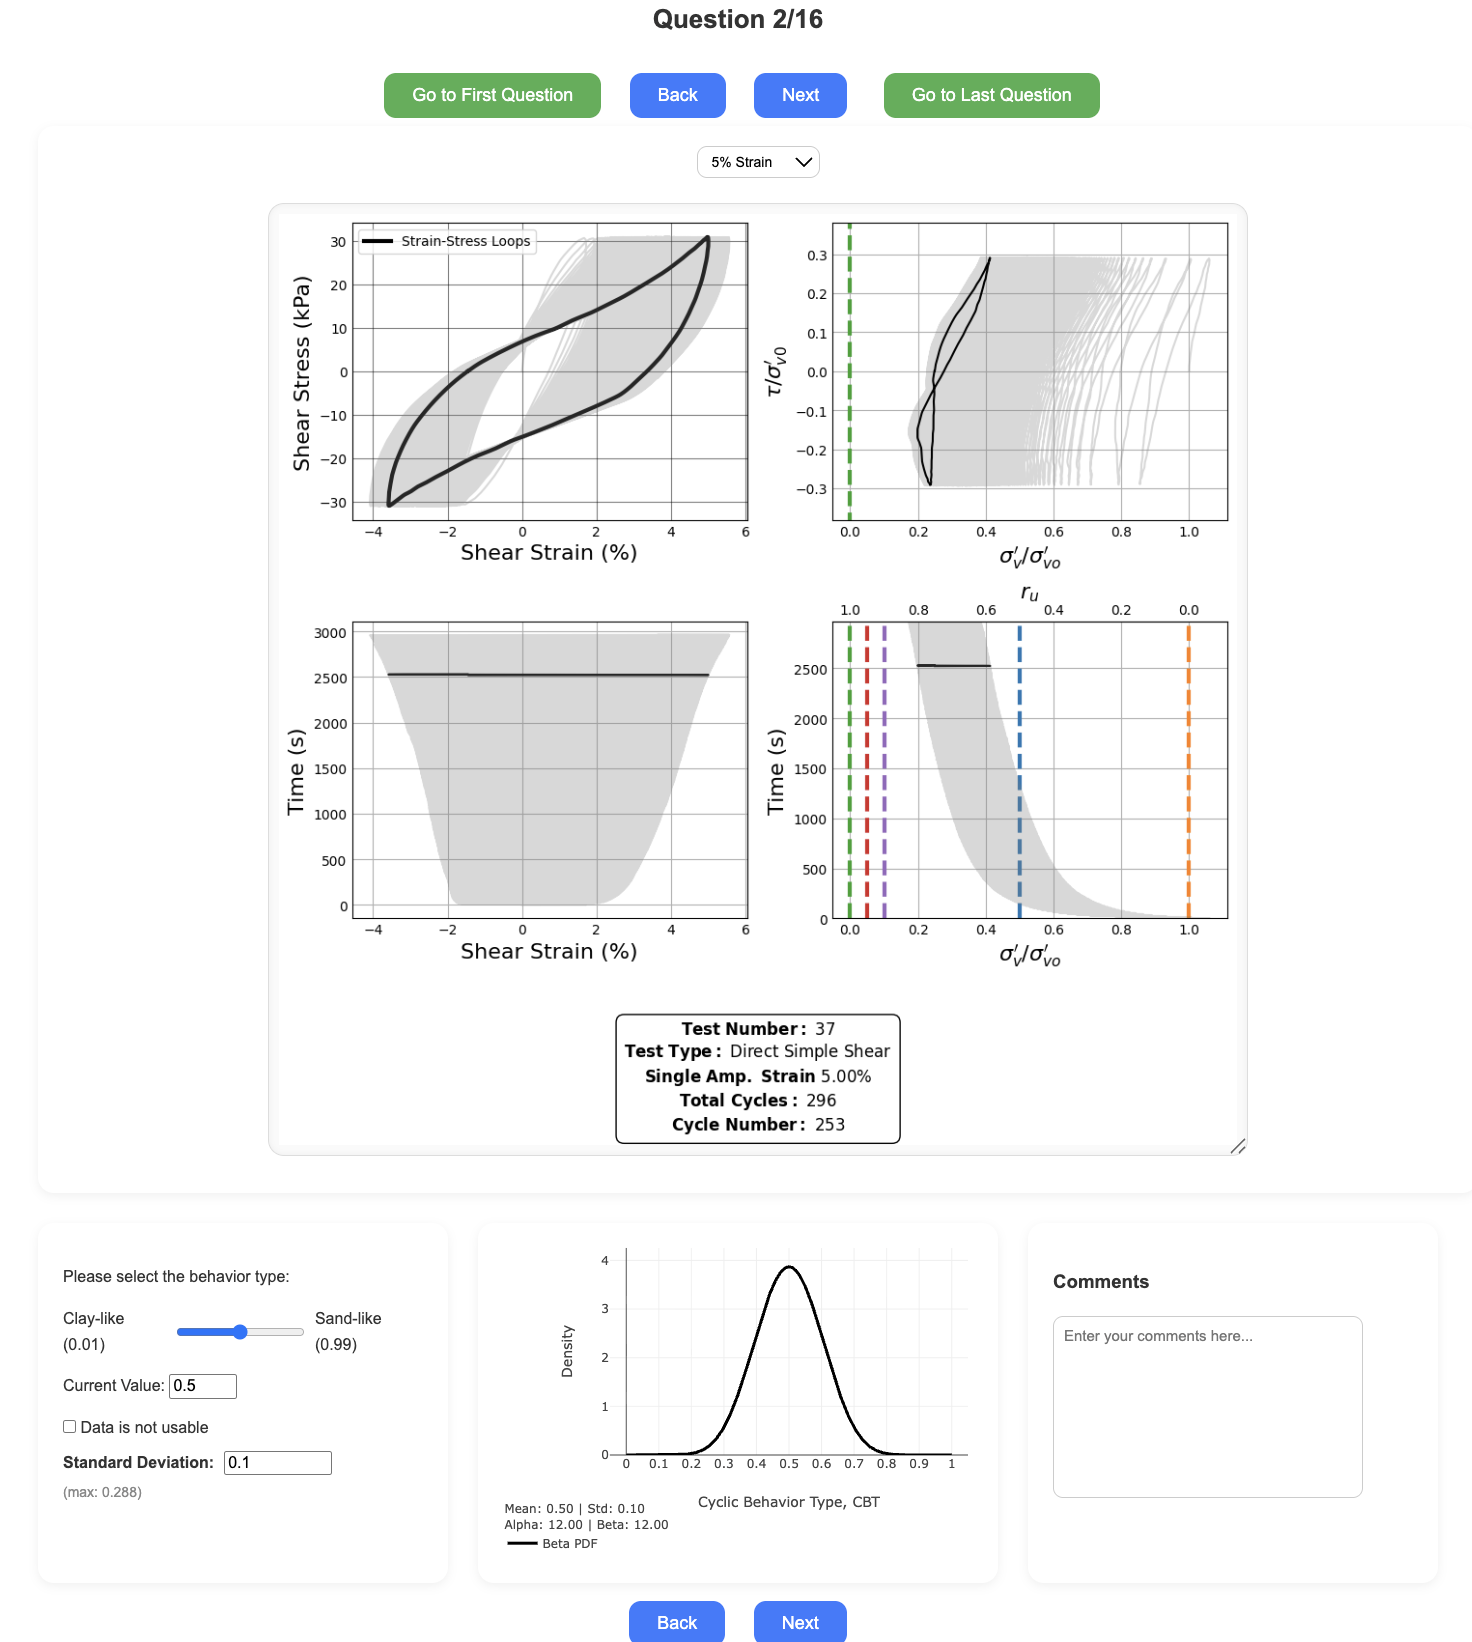
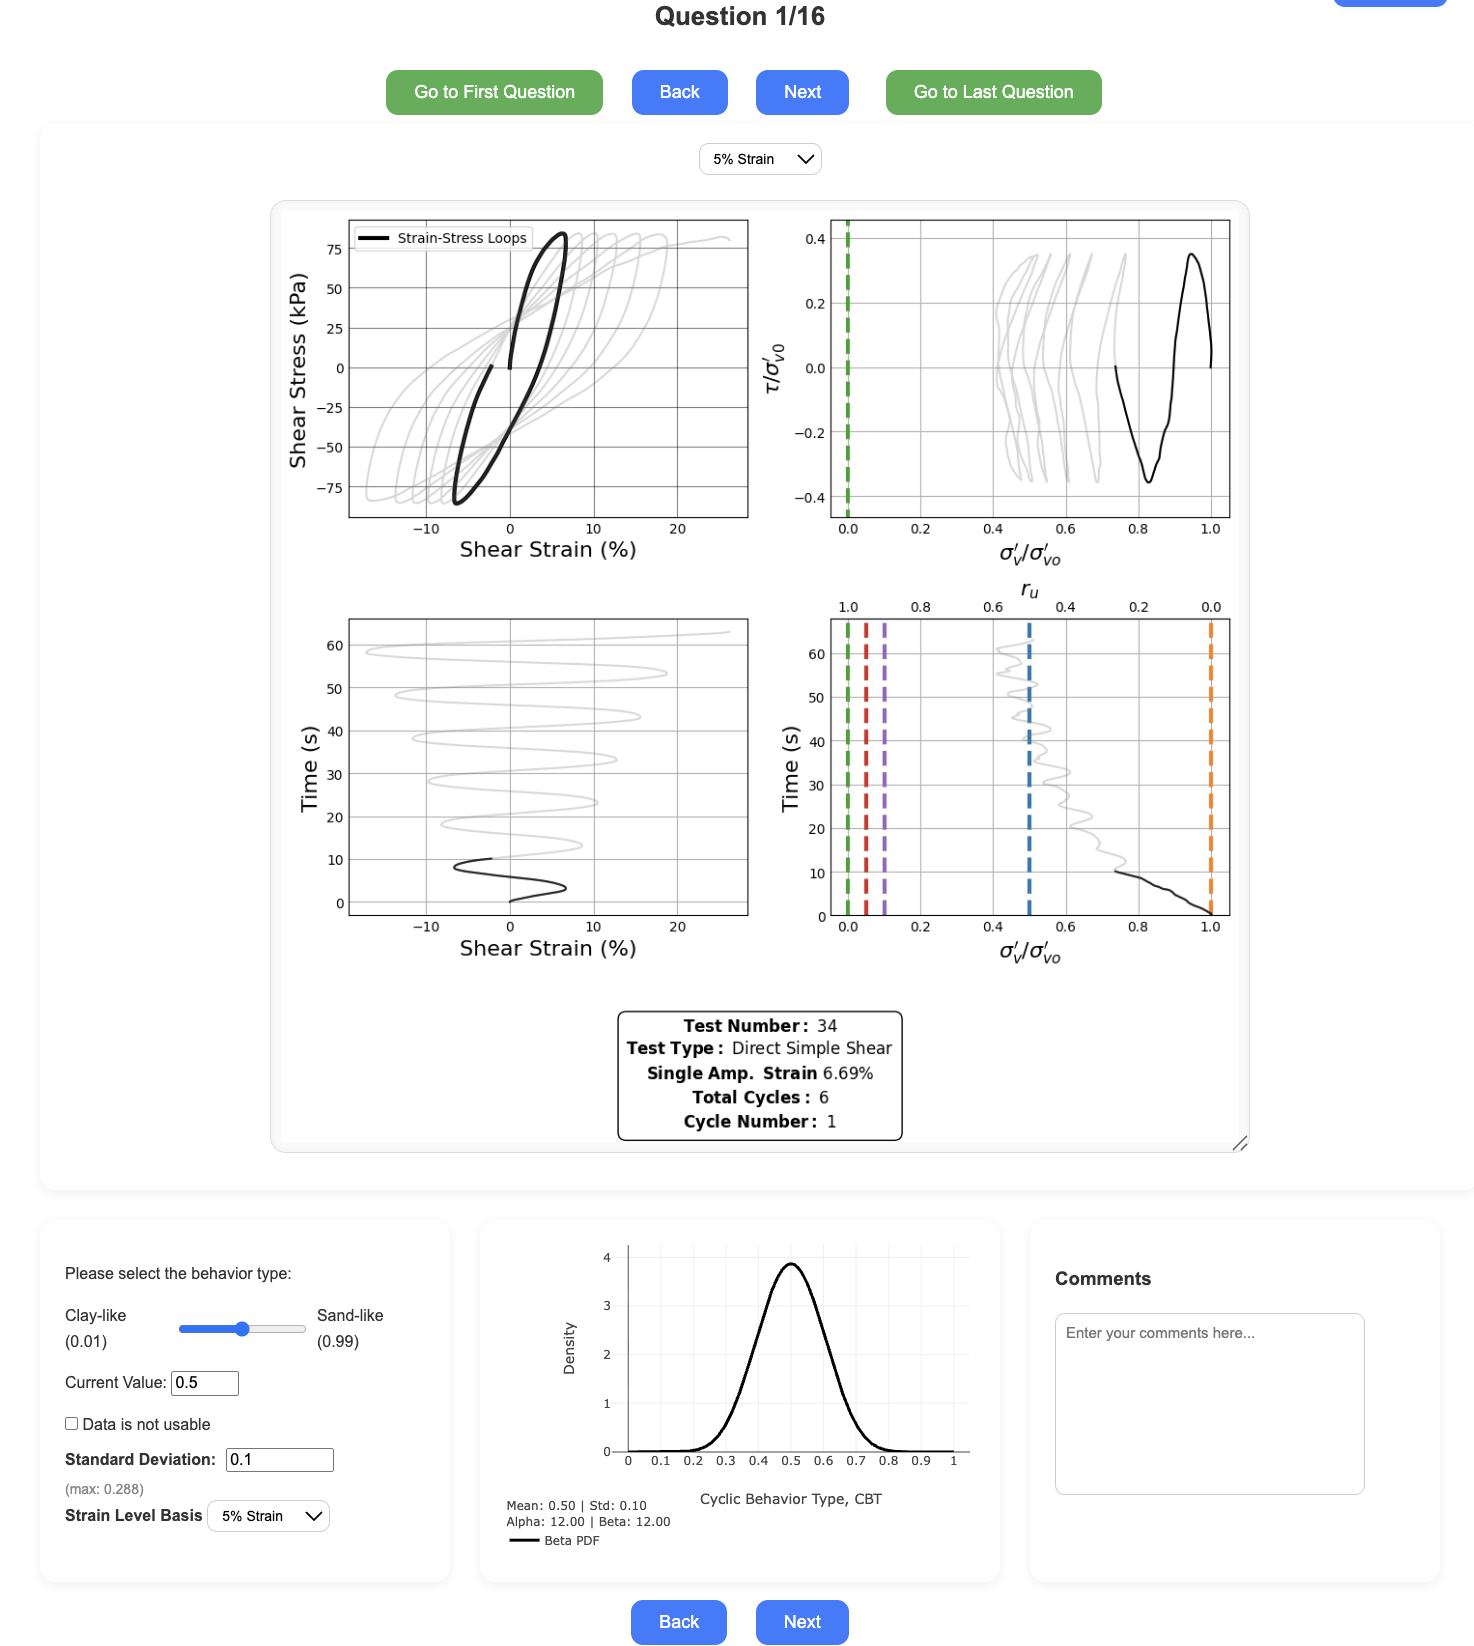
tutorial and Excel

diff --git a/script.js b/script.js
@@ -941,7 +941,16 @@ function downloadExcel() {
         excelData.push([k, researcherMeta[k]]);
     });
     excelData.push([]);
-    excelData.push(["Question #", "Behavior", "Slider", "Std Dev", "Comments"]);
+
+    // UPDATED HEADER (added strain basis)
+    excelData.push([
+        "Question #",
+        "Behavior",
+        "Slider",
+        "Std Dev",
+        "Strain Level Basis",
+        "Comments"
+    ]);
 
     // Loop through each question
     Object.keys(responses).forEach(q => {
@@ -950,6 +959,7 @@ function downloadExcel() {
             responses[q].behavior || "",
             responses[q].slider || "",
             responses[q].stddev || "",
+            responses[q].strain_pref || "",   // <-- NEW
             responses[q].comments || ""
         ]);
     });
@@ -963,9 +973,9 @@ function downloadExcel() {
 
     // Generate file name
     const safeName = (currentUser?.email || "unknown")
-    .toLowerCase()
-    .replace(/[^a-z0-9]+/g, "_")
-    .replace(/^_+|_+$/g, "");
+        .toLowerCase()
+        .replace(/[^a-z0-9]+/g, "_")
+        .replace(/^_+|_+$/g, "");
 
     const fileName = `responses_${safeName}.xlsx`;
 
